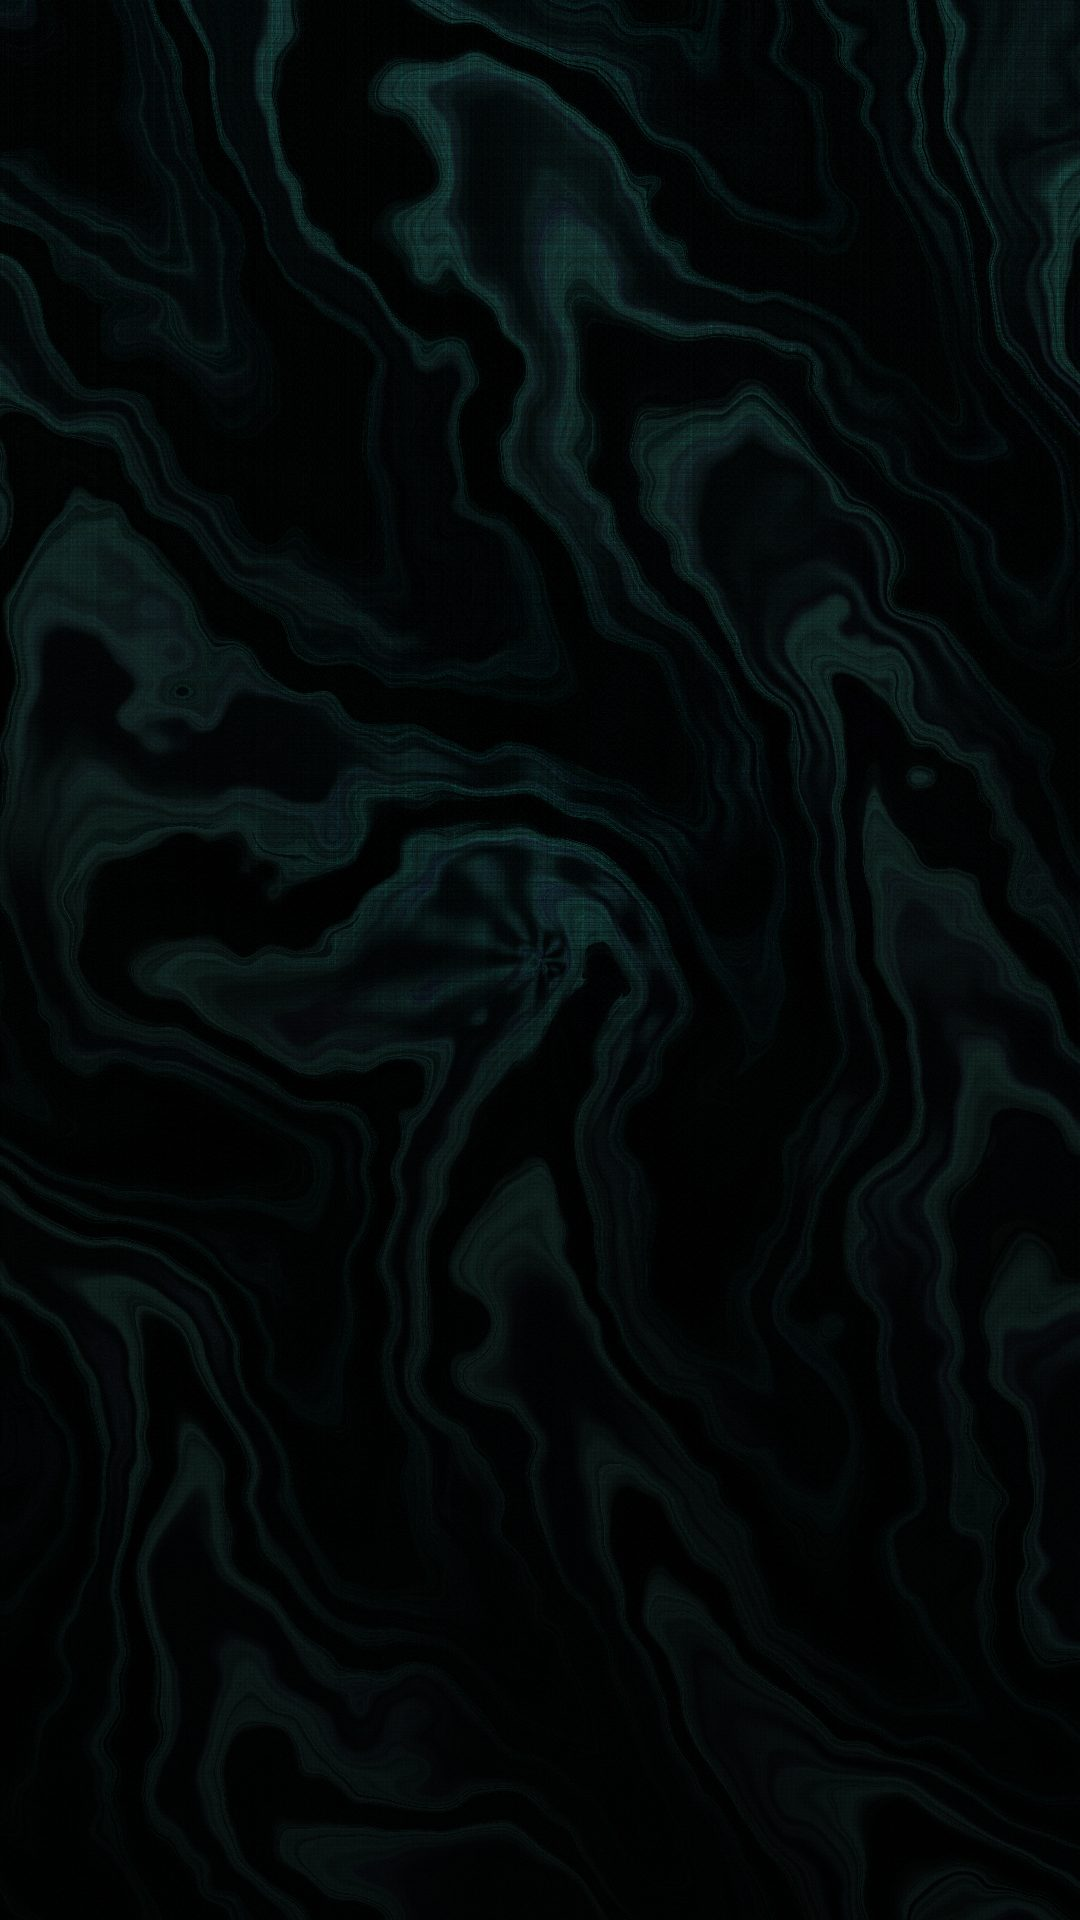
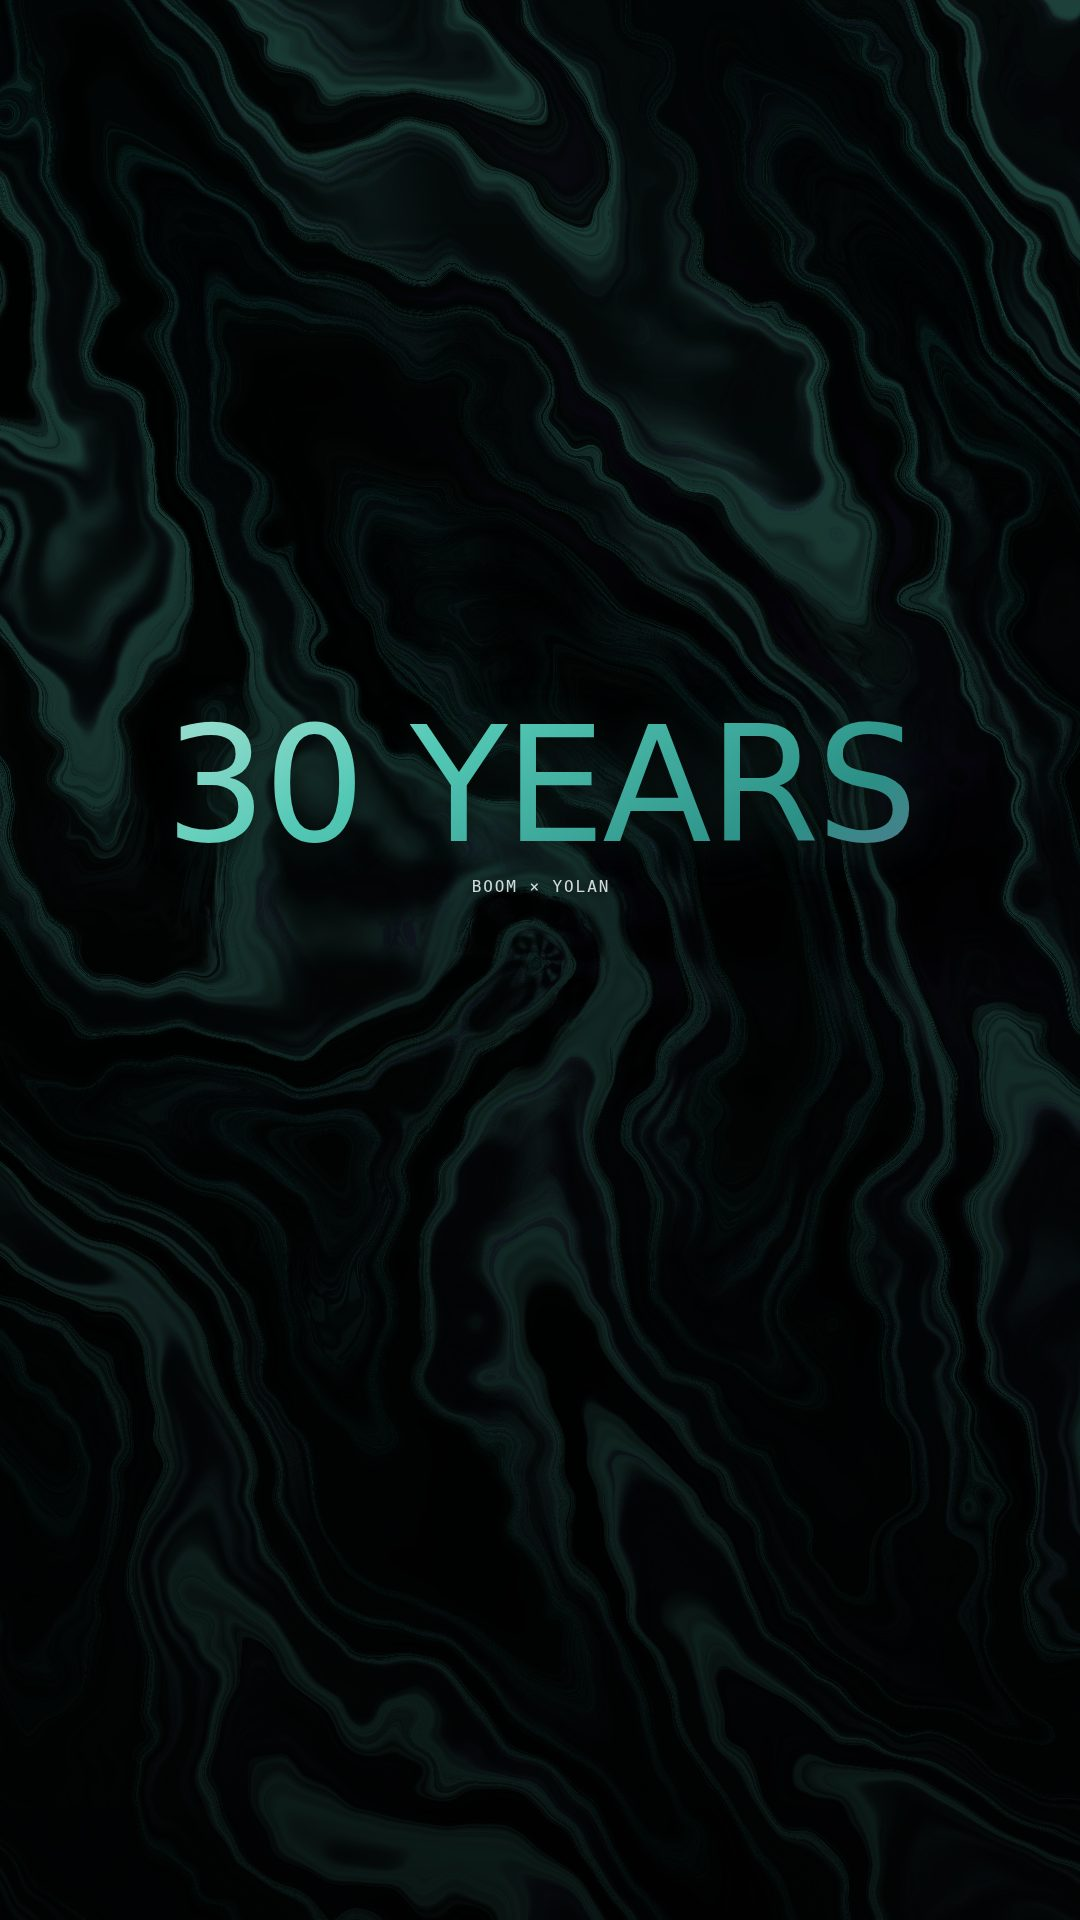
Freeze the frozen path: make poster.jpg deterministic
?debug and __seek hold every clock still so the frame is a pure function of the
seek position, but three CSS animations/transitions kept running on wall time
underneath, so the committed poster was captured at whatever phase CI happened
to reach. Three consecutive verify.mjs runs on an unmodified tree wrote
142608 / 136028 / 128467-byte posters — the hero frame was substantially
different every time, which makes a poster diff useless as a regression signal.

- ditherPulse: full-screen, overlay-blended, filtered, animating opacity and
  transform forever. It was also the only animation on the page not honouring
  prefers-reduced-motion.
- #overlay's opacity (.9s after a .25s delay) and each .beat's
  opacity/transform/filter (.9-1.1s). verify.mjs screenshots 180ms after
  .active lands, i.e. still inside #overlay's delay — which is why poster.jpg
  was pure plasma with no title on it at all.

animation:none / transition:none rather than paused, so the frozen path snaps
to the deterministic arrived state. Three runs are now byte-identical, and the
og:image WhatsApp renders finally carries the hero title.

Claude-Session: https://claude.ai/code/session_01Xx4b1y5V9rKhQbKtkZUyDa

diff --git a/index.html b/index.html
@@ -464,9 +464,30 @@
     #hype.broken{ animation:none; }
     .arrow-down{ animation:none; }
     .arrow-down .shaft{ animation:none; stroke-dasharray:none; }
+    /* Full-screen, overlay-blended, filtered, and animating opacity + transform forever: the
+       single largest piece of motion on the page, and the only one that was not honouring this
+       query. */
+    #retro-dither{ animation:none; }
     /* No rule needed for the per-beat colour change any more: frame() gates the accent rotation
        (and the beat-warped plasma clock) on !reducedMotion, so neither ever starts. */
   }
+
+  /* ?debug and __seek hold every clock still so the frame is a pure function of the seek position.
+     ditherPulse is a wall-clock CSS animation, though, so it kept running underneath and the
+     committed poster.jpg captured it at whatever phase CI happened to reach: three consecutive
+     verify.mjs runs on an unmodified tree wrote 142608 / 136028 / 128467-byte posters, i.e. the
+     hero frame was substantially different every time. animation:none and not
+     animation-play-state:paused, so it snaps to the base style (opacity:1, no transform) rather
+     than freezing wherever it happened to get to. */
+  body.frozen #retro-dither{ animation:none; }
+  /* Two fade-ins also stand between __seek and a settled frame: #overlay's opacity (.9s after a
+     .25s delay) and each .beat's opacity/transform/filter (.9-1.1s). verify.mjs screenshots 180ms
+     after .active lands — inside #overlay's delay — which is why the committed poster.jpg was pure
+     plasma with no title on it, and why run-to-run drift survived freezing ditherPulse: the
+     capture landed at whatever phase of two transitions CI happened to reach. A held clock has
+     nothing to animate towards, so snap to the arrived state. */
+  body.frozen #overlay,
+  body.frozen .beat{ transition:none; }
 </style>
 </head>
 <body>
@@ -1852,6 +1873,7 @@ function initDebug(){
   const bar = $('#debug'); bar.classList.add('on');
   const slider = $('#dbg-slider');
   state.started = true; state.paused = true;
+  document.body.classList.add('frozen');   // see body.frozen in <style>
   const seekTo = t => { state.held.scene = clamp(t, 0, DURATION - 0.001); };
   slider.oninput = () => seekTo(slider.value / 1000 * DURATION);
   $('#dbg-prev').onclick = () => { const i = Math.max(0, state.beat - 1); seekTo(BEATS[i].start + 0.001); };
@@ -1861,6 +1883,7 @@ function initDebug(){
 // Verify/export hook: land on a beat and hold (deterministic, no audio needed).
 window.__seek = i => {
   state.started = true; state.paused = true;
+  document.body.classList.add('frozen');   // see body.frozen in <style>
   state.held.scene = clamp(BEATS[clamp(i,0,BEATS.length-1)].start + 0.001, 0, DURATION - 0.001);
   state.held.ambient = i * 3.7;
 };
